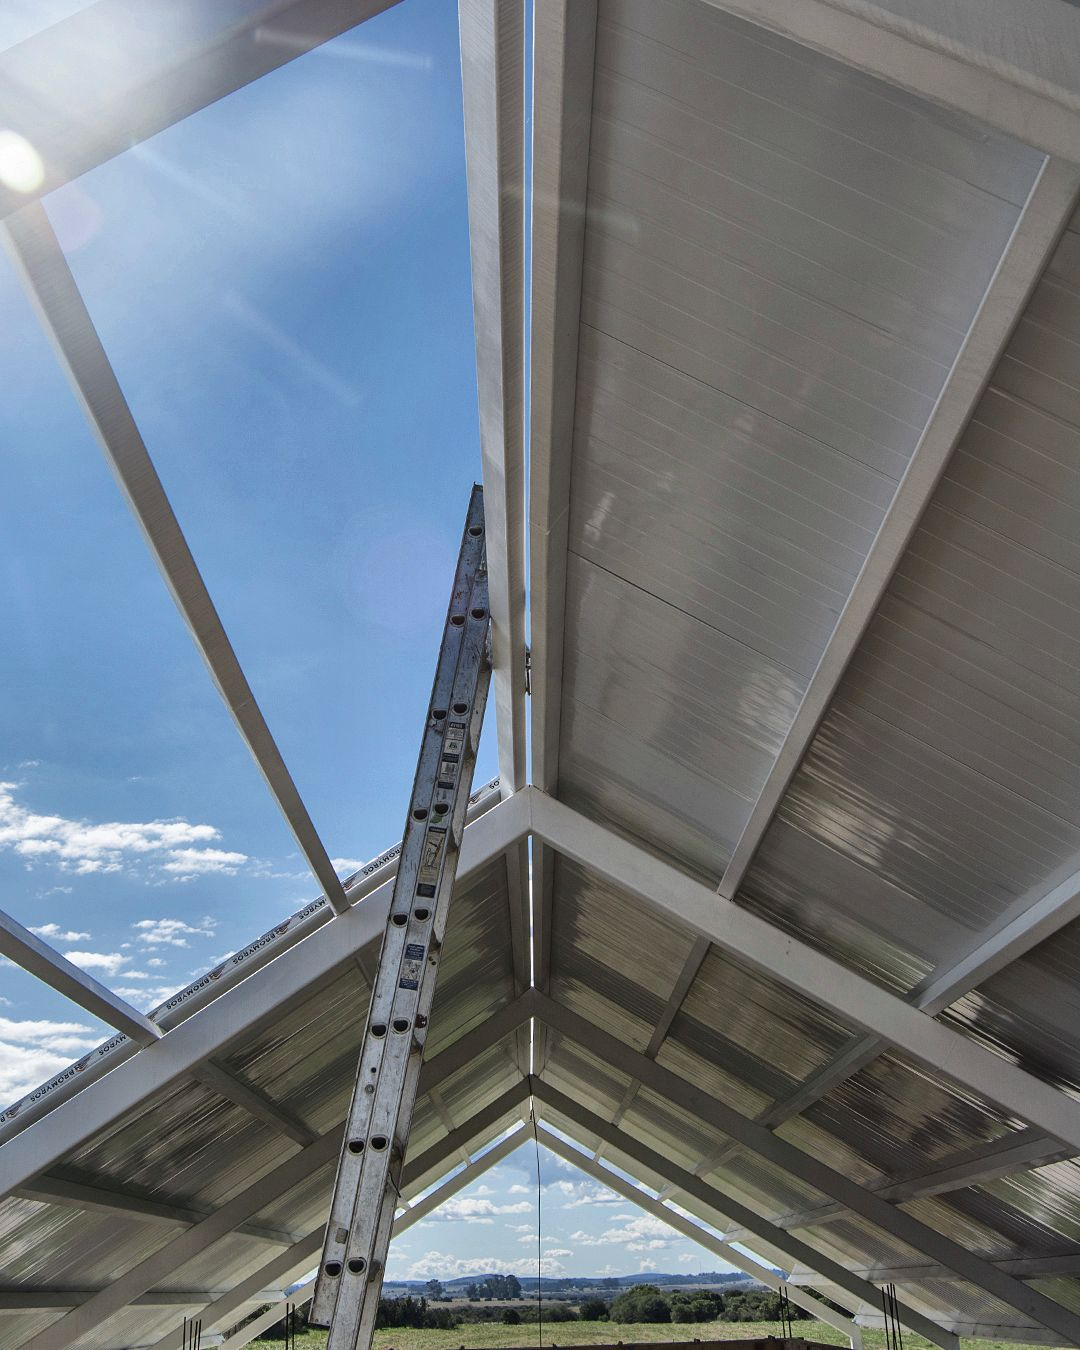
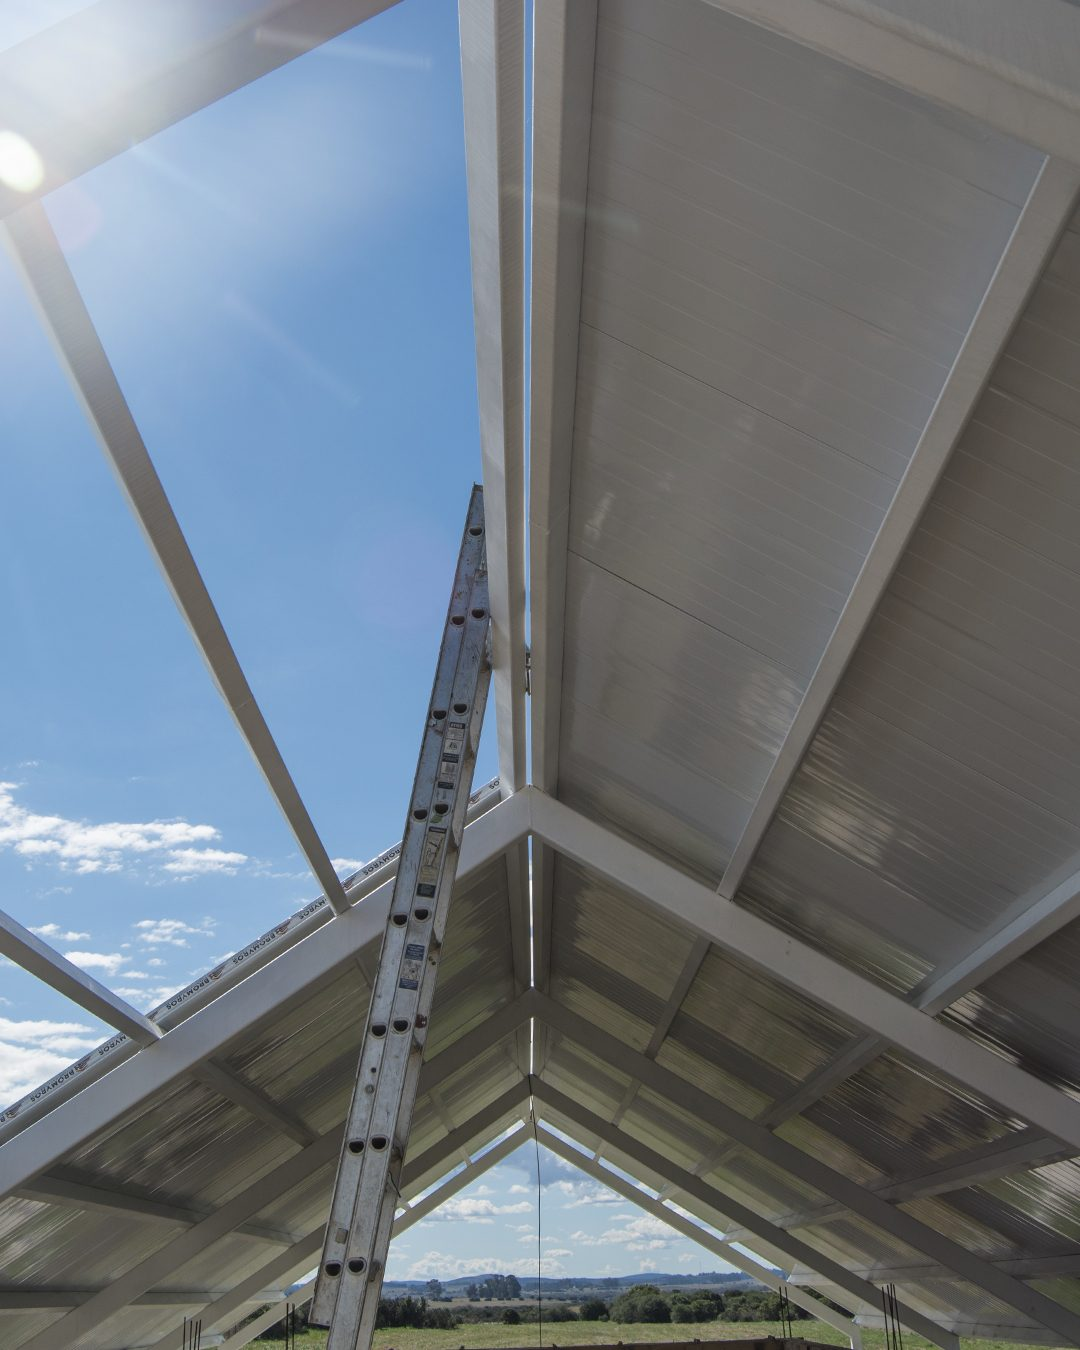
Web SBU: foto de la estructura blanca sin retoque, como el original
Claude-Session: https://claude.ai/code/session_017rAcojMQWWqPEBy1PCDp9j

diff --git a/web/index.html b/web/index.html
@@ -340,7 +340,7 @@ footer .w{display:flex;flex-wrap:wrap;gap:18px 40px;justify-content:space-betwee
 </div></section>
 
 <figure class="obra">
-  <img src="img/obra-estructura-1800.jpg?v=2" srcset="img/obra-estructura-900.jpg?v=2 900w, img/obra-estructura-1800.jpg?v=2 1800w" sizes="100vw" alt="estructura y cubierta" loading="lazy" style="object-position:50% 35%">
+  <img src="img/obra-estructura-1800.jpg?v=3" srcset="img/obra-estructura-900.jpg?v=3 900w, img/obra-estructura-1800.jpg?v=3 1800w" sizes="100vw" alt="estructura y cubierta" loading="lazy" style="object-position:50% 35%">
   <figcaption><div class="w"><div class="eyebrow">Obra real · estructura y cubierta</div><b>Estructura liviana, precisa y rápida.</b><span>Montamos en seco: menos tiempo de obra, menos imprevistos y un precio que se sostiene.</span></div></figcaption>
 </figure>
 
